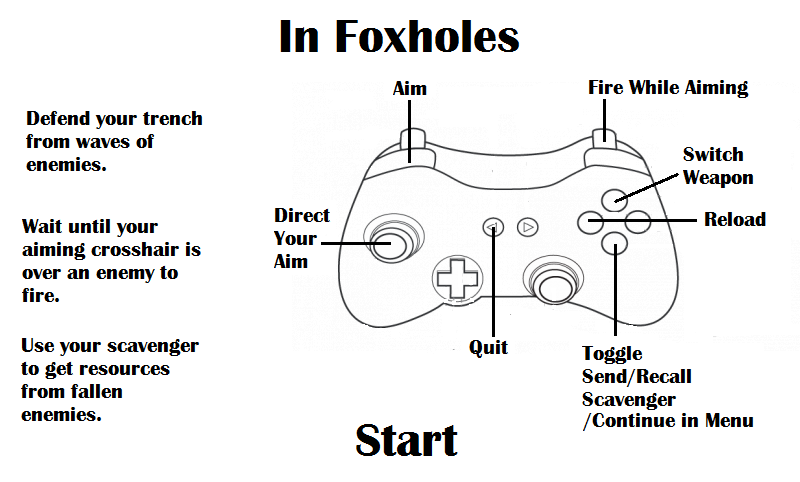
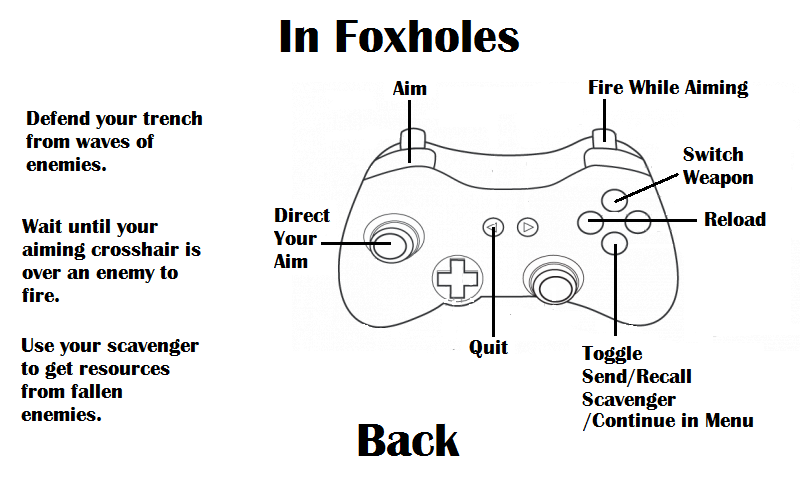
Improved Menu
Yet to add sound/graphics to main menu.

Changed region(s): [[0.4375, 0.8714, 0.5938, 0.9647]]

diff --git a/InFoxholes/Windows/Menu.cs b/InFoxholes/Windows/Menu.cs
@@ -3,88 +3,179 @@ using Microsoft.Xna.Framework.Content;
 using Microsoft.Xna.Framework.Graphics;
 using Microsoft.Xna.Framework.Input;
 using System;
+using InFoxholes.Util;
 
 
 namespace InFoxholes.Windows
 {
-    class Menu
+    public class Menu
     {
-        public Texture2D menuTexture;
-        public Texture2D controllerMenuTexture;
+        public AnimatedSprite menuTexture;
         Vector2 topleft;
         Vector2 botright;
+        Vector2 topleftControls;
+        Vector2 botrightControls;
         public Texture2D pixel;
         bool hoverFlag = false;
-        bool controllerFlag = false;
+        bool hoverFlagControls = false;
+        public static bool isInControllerMenu;
+        public ControllerMenu controllerMenu;
+        int selectedButton;
 
         /* Magic Numbers */
-        static int startButtonLX = 345;
-        static int startButtonLY = 415;
-        static int startButtonRX = 470;
-        static int startButtonRY = 465;
+        static int startButtonLX = 30;
+        static int startButtonLY = 135;
+        static int startButtonRX = 120;
+        static int startButtonRY = 175;
+        static int controlsButtonLX = 30;
+        static int controlsButtonLY = 205;
+        static int controlsButtonRX = 180;
+        static int controlsButtonRY = 240;
         int startButtonWidth = startButtonRX - startButtonLX;
         int startButtonHeight = startButtonRY - startButtonLY;
+        int controlsButtonWidth = controlsButtonRX - controlsButtonLX;
+        int controlsButtonHeight = controlsButtonRY - controlsButtonLY;
         private float lineThickness = 4f;
         private float halfPi = (float)(Math.PI / 2);
+        int animationSpeed = 100;
+        float thresholdLength = .8f;
                 
 
         public Menu(ContentManager Content, SpriteBatch spriteBatch)
         {
-            menuTexture = Content.Load<Texture2D>("Graphics\\Menu");
-            controllerMenuTexture = Content.Load<Texture2D>("Graphics\\ControllerMenu");
+            menuTexture = new AnimatedSprite(Content.Load<Texture2D>("Graphics\\MainMenu"), 2, 2, animationSpeed);
             topleft = new Vector2(startButtonLX, startButtonLY);
             botright = new Vector2(startButtonRX, startButtonRY);
+            topleftControls = new Vector2(controlsButtonLX, controlsButtonLY);
+            botrightControls = new Vector2(controlsButtonRX, controlsButtonRY);
             pixel = new Texture2D(spriteBatch.GraphicsDevice, 1, 1, false, SurfaceFormat.Color);
             pixel.SetData(new[] { Color.White });
+            isInControllerMenu = false;
+            controllerMenu = new ControllerMenu(Content, spriteBatch);
+            selectedButton = 0;
         }
         public void Update(GameTime gameTime, GamePadState gamepadState)
         {
-            if (gamepadState.IsConnected)
+            if (isInControllerMenu)
             {
-                controllerFlag = true;
-                if (gamepadState.Buttons.A == ButtonState.Pressed)
-                {
-                    MainGame.isInMenu = false;
-                }
+                controllerMenu.Update(gameTime, gamepadState);
             }
             else
             {
-                controllerFlag = false;
-            }
-
-            if (overStartButton(Mouse.GetState().X, Mouse.GetState().Y))
-            {
-                hoverFlag = true;
-                if (Mouse.GetState().LeftButton == ButtonState.Pressed)
+                if (gamepadState.IsConnected)
                 {
-                    MainGame.isInMenu = false;
+                    if (selectedButton == 0)
+                    {
+                        hoverFlag = true;
+                        hoverFlagControls = false;
+                        if (gamepadState.Buttons.A == ButtonState.Pressed && MainGame.previousGamepadState.Buttons.A != ButtonState.Pressed)
+                        {
+                            MainGame.isInMenu = false;
+                        }
+                        if (gamepadState.DPad.Down == ButtonState.Pressed  && MainGame.previousGamepadState.DPad.Down != ButtonState.Pressed ||
+                            gamepadState.DPad.Up == ButtonState.Pressed && MainGame.previousGamepadState.DPad.Up != ButtonState.Pressed ||
+                            gamepadState.DPad.Left == ButtonState.Pressed && MainGame.previousGamepadState.DPad.Left != ButtonState.Pressed ||
+                            gamepadState.DPad.Right == ButtonState.Pressed && MainGame.previousGamepadState.DPad.Right != ButtonState.Pressed ||
+                            gamepadState.ThumbSticks.Left.Length() > thresholdLength && !(MainGame.previousGamepadState.ThumbSticks.Left.Length() > thresholdLength))
+                        {
+                            selectedButton = 1;
+                        }
+                    }
+                    else if (selectedButton == 1)
+                    {
+                        hoverFlag = false;
+                        hoverFlagControls = true;
+                        if (gamepadState.Buttons.A == ButtonState.Pressed && MainGame.previousGamepadState.Buttons.A != ButtonState.Pressed)
+                        {
+                            isInControllerMenu = true;
+                        }
+                        if (gamepadState.DPad.Down == ButtonState.Pressed && MainGame.previousGamepadState.DPad.Down != ButtonState.Pressed ||
+                            gamepadState.DPad.Up == ButtonState.Pressed && MainGame.previousGamepadState.DPad.Up != ButtonState.Pressed ||
+                            gamepadState.DPad.Left == ButtonState.Pressed && MainGame.previousGamepadState.DPad.Left != ButtonState.Pressed ||
+                            gamepadState.DPad.Right == ButtonState.Pressed && MainGame.previousGamepadState.DPad.Right != ButtonState.Pressed ||
+                            gamepadState.ThumbSticks.Left.Length() > thresholdLength && !(MainGame.previousGamepadState.ThumbSticks.Left.Length() > thresholdLength))
+                        {
+                            selectedButton = 0;
+                        }
+                    }
                 }
-            }
-            else
-            {
-                hoverFlag = false;
+                else
+                {
+                    if (overStartButton(Mouse.GetState().X, Mouse.GetState().Y))
+                    {
+                        hoverFlag = true;
+                        if (Mouse.GetState().LeftButton == ButtonState.Pressed && MainGame.previousMouseState.LeftButton != ButtonState.Pressed)
+                        {
+                            MainGame.isInMenu = false;
+                        }
+                    }
+                    else
+                    {
+                        hoverFlag = false;
+                    }
+                    if (overControlsButton(Mouse.GetState().X, Mouse.GetState().Y))
+                    {
+                        hoverFlagControls = true;
+                        if (Mouse.GetState().LeftButton == ButtonState.Pressed && MainGame.previousMouseState.LeftButton != ButtonState.Pressed)
+                        {
+                            isInControllerMenu = true;
+                        }
+                    }
+                    else
+                    {
+                        hoverFlagControls = false;
+                    }
+                }
+                
             }
         }
         public void Draw(SpriteBatch spriteBatch, GameTime gameTime)
         {
-            if (controllerFlag) spriteBatch.Draw(controllerMenuTexture, Vector2.Zero, null, Color.White, 0f, Vector2.Zero, 1f, SpriteEffects.None, 0f);
-            else spriteBatch.Draw(menuTexture, Vector2.Zero, null, Color.White, 0f, Vector2.Zero, 1f, SpriteEffects.None, 0f);
-            if (hoverFlag)
+            if (isInControllerMenu)
             {
-                spriteBatch.Draw(pixel, topleft, null, Color.Black, 0, Vector2.Zero, new Vector2(125, lineThickness),
-                    SpriteEffects.None, 0);
-                spriteBatch.Draw(pixel, topleft, null, Color.Black, halfPi, Vector2.Zero, new Vector2(50, lineThickness),
-                    SpriteEffects.None, 0);
-                spriteBatch.Draw(pixel, botright, null, Color.Black, 2 * halfPi, Vector2.Zero, new Vector2(125, lineThickness),
-                    SpriteEffects.None, 0);
-                spriteBatch.Draw(pixel, botright, null, Color.Black, -1 * halfPi, Vector2.Zero, new Vector2(50, lineThickness),
-                    SpriteEffects.None, 0);
+                controllerMenu.Draw(spriteBatch, gameTime);
+            }
+            else
+            {
+                menuTexture.Update();
+                menuTexture.Draw(spriteBatch, Vector2.Zero,  1f, SpriteEffects.None);
+                if (hoverFlag)
+                {
+                    spriteBatch.Draw(pixel, topleft, null, Color.Black, 0, Vector2.Zero, new Vector2(startButtonWidth, lineThickness),
+                        SpriteEffects.None, 0);
+                    spriteBatch.Draw(pixel, topleft, null, Color.Black, halfPi, Vector2.Zero, new Vector2(startButtonHeight, lineThickness),
+                        SpriteEffects.None, 0);
+                    spriteBatch.Draw(pixel, botright, null, Color.Black, 2 * halfPi, Vector2.Zero, new Vector2(startButtonWidth, lineThickness),
+                        SpriteEffects.None, 0);
+                    spriteBatch.Draw(pixel, botright, null, Color.Black, -1 * halfPi, Vector2.Zero, new Vector2(startButtonHeight, lineThickness),
+                        SpriteEffects.None, 0);
+                }
+                if (hoverFlagControls)
+                {
+                    spriteBatch.Draw(pixel, topleftControls, null, Color.Black, 0, Vector2.Zero, new Vector2(controlsButtonWidth, lineThickness),
+                        SpriteEffects.None, 0);
+                    spriteBatch.Draw(pixel, topleftControls, null, Color.Black, halfPi, Vector2.Zero, new Vector2(controlsButtonHeight, lineThickness),
+                        SpriteEffects.None, 0);
+                    spriteBatch.Draw(pixel, botrightControls, null, Color.Black, 2 * halfPi, Vector2.Zero, new Vector2(controlsButtonWidth, lineThickness),
+                        SpriteEffects.None, 0);
+                    spriteBatch.Draw(pixel, botrightControls, null, Color.Black, -1 * halfPi, Vector2.Zero, new Vector2(controlsButtonHeight, lineThickness),
+                        SpriteEffects.None, 0);
+                }
             }
         }
         private bool overStartButton(int mouseX, int mouseY)
         {
             if (mouseX <= startButtonRX && mouseX >= startButtonLX
                 && mouseY <= startButtonRY && mouseY >= startButtonLY)
+            {
+                return true;
+            }
+            return false;
+        }
+        private bool overControlsButton(int mouseX, int mouseY)
+        {
+            if (mouseX <= controlsButtonRX && mouseX >= controlsButtonLX
+                && mouseY <= controlsButtonRY && mouseY >= controlsButtonLY)
             {
                 return true;
             }

diff --git a/InFoxholes/Windows/ControllerMenu.cs b/InFoxholes/Windows/ControllerMenu.cs
@@ -1,0 +1,93 @@
+using Microsoft.Xna.Framework;
+using Microsoft.Xna.Framework.Content;
+using Microsoft.Xna.Framework.Graphics;
+using Microsoft.Xna.Framework.Input;
+using System;
+
+namespace InFoxholes.Windows
+{
+    public class ControllerMenu
+     {
+        public Texture2D menuTexture;
+        public Texture2D controllerMenuTexture;
+        Vector2 topleft;
+        Vector2 botright;
+        public Texture2D pixel;
+        bool hoverFlag = false;
+        bool controllerFlag = false;
+
+        /* Magic Numbers */
+        static int startButtonLX = 345;
+        static int startButtonLY = 415;
+        static int startButtonRX = 470;
+        static int startButtonRY = 465;
+        int startButtonWidth = startButtonRX - startButtonLX;
+        int startButtonHeight = startButtonRY - startButtonLY;
+        private float lineThickness = 4f;
+        private float halfPi = (float)(Math.PI / 2);
+                
+
+        public ControllerMenu(ContentManager Content, SpriteBatch spriteBatch)
+        {
+            menuTexture = Content.Load<Texture2D>("Graphics\\Menu");
+            controllerMenuTexture = Content.Load<Texture2D>("Graphics\\ControllerMenu");
+            topleft = new Vector2(startButtonLX, startButtonLY);
+            botright = new Vector2(startButtonRX, startButtonRY);
+            pixel = new Texture2D(spriteBatch.GraphicsDevice, 1, 1, false, SurfaceFormat.Color);
+            pixel.SetData(new[] { Color.White });
+        }
+        public void Update(GameTime gameTime, GamePadState gamepadState)
+        {
+            if (gamepadState.IsConnected)
+            {
+                hoverFlag = true;
+                controllerFlag = true;
+                if (gamepadState.Buttons.A == ButtonState.Pressed && MainGame.previousGamepadState.Buttons.A != ButtonState.Pressed)
+                {
+                    Menu.isInControllerMenu = false;
+                }
+            }
+            else
+            {
+                controllerFlag = false;
+                if (overStartButton(Mouse.GetState().X, Mouse.GetState().Y))
+                {
+                    hoverFlag = true;
+                    if (Mouse.GetState().LeftButton == ButtonState.Pressed && MainGame.previousMouseState.LeftButton != ButtonState.Pressed)
+                    {
+                        Menu.isInControllerMenu = false;
+                    }
+                }
+                else
+                {
+                    hoverFlag = false;
+                }
+            }
+        }
+        public void Draw(SpriteBatch spriteBatch, GameTime gameTime)
+        {
+            if (controllerFlag) spriteBatch.Draw(controllerMenuTexture, Vector2.Zero, null, Color.White, 0f, Vector2.Zero, 1f, SpriteEffects.None, 0f);
+            else spriteBatch.Draw(menuTexture, Vector2.Zero, null, Color.White, 0f, Vector2.Zero, 1f, SpriteEffects.None, 0f);
+            if (hoverFlag)
+            {
+                spriteBatch.Draw(pixel, topleft, null, Color.Black, 0, Vector2.Zero, new Vector2(startButtonWidth, lineThickness),
+                    SpriteEffects.None, 0);
+                spriteBatch.Draw(pixel, topleft, null, Color.Black, halfPi, Vector2.Zero, new Vector2(startButtonHeight, lineThickness),
+                    SpriteEffects.None, 0);
+                spriteBatch.Draw(pixel, botright, null, Color.Black, 2 * halfPi, Vector2.Zero, new Vector2(startButtonWidth, lineThickness),
+                    SpriteEffects.None, 0);
+                spriteBatch.Draw(pixel, botright, null, Color.Black, -1 * halfPi, Vector2.Zero, new Vector2(startButtonHeight, lineThickness),
+                    SpriteEffects.None, 0);
+            }
+        }
+        private bool overStartButton(int mouseX, int mouseY)
+        {
+            if (mouseX <= startButtonRX && mouseX >= startButtonLX
+                && mouseY <= startButtonRY && mouseY >= startButtonLY)
+            {
+                return true;
+            }
+            return false;
+        }
+    }
+}

diff --git a/InFoxholes/Waves/WaveManager.cs b/InFoxholes/Waves/WaveManager.cs
@@ -84,7 +84,8 @@ namespace InFoxholes.Waves
                 }
                 else
                 {
-                    hoverFlag = false;
+                    if (MainGame.currentGamepadState.IsConnected) hoverFlag = true;
+                    else hoverFlag = false;
                 }
             }
             else if (State == 1)
